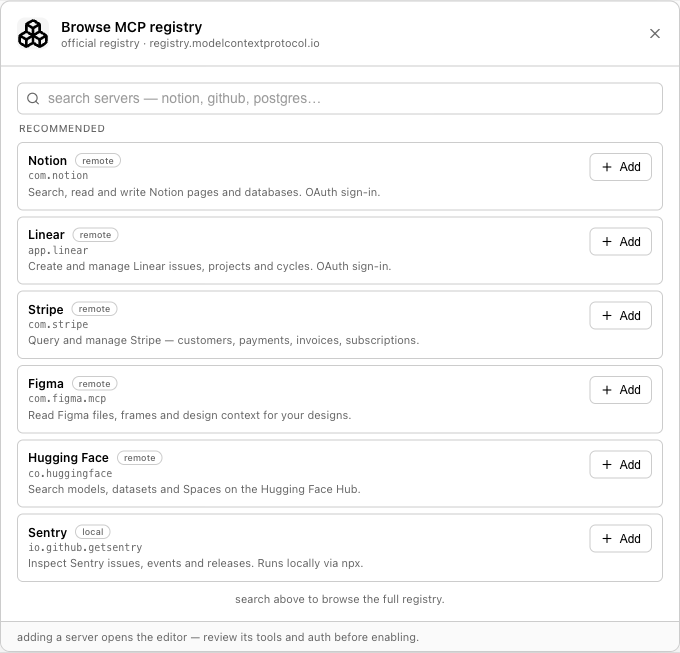
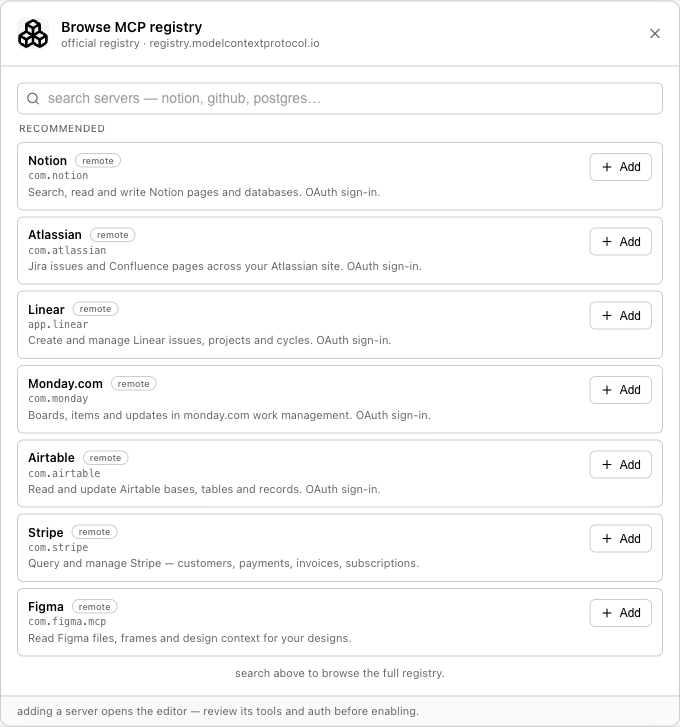
feat(connections): make recommended MCP servers mainstream work apps
Swap the dev-skewed recommendations (Hugging Face, Sentry) for apps our
B2B users actually live in, all with trustworthy official vendor remotes:
Notion, Atlassian (Jira/Confluence), Linear, Monday.com, Airtable, Stripe,
Figma. Each is OAuth-based and first-party hosted.

Deliberately NOT recommending Slack/Gmail/Calendar here: the registry has
no official vendor remotes for them (only third-party brokers that route
that data off-device — counter to local-first), and screenpipe already
ships native first-party connection cards for all three.

Changed region(s): [[0.0, 0.0306, 0.9882, 1.0], [0.9574, 0.0306, 0.9882, 0.0613]]

diff --git a/apps/screenpipe-app-tauri/lib/mcp-registry.ts b/apps/screenpipe-app-tauri/lib/mcp-registry.ts
@@ -256,11 +256,30 @@ export const RECOMMENDED_SERVERS: RegistryServer[] = [
     remotes: [{ type: "streamable-http", url: "https://mcp.notion.com/mcp" }],
   },
   {
+    name: "com.atlassian/atlassian-mcp-server",
+    title: "Atlassian",
+    description: "Jira issues and Confluence pages across your Atlassian site. OAuth sign-in.",
+    repository: { url: "https://www.atlassian.com/platform/remote-mcp-server" },
+    remotes: [{ type: "streamable-http", url: "https://mcp.atlassian.com/v1/mcp" }],
+  },
+  {
     name: "app.linear/linear",
     title: "Linear",
     description: "Create and manage Linear issues, projects and cycles. OAuth sign-in.",
     repository: { url: "https://linear.app/docs/mcp" },
     remotes: [{ type: "sse", url: "https://mcp.linear.app/sse" }],
+  },
+  {
+    name: "com.monday/monday.com",
+    title: "Monday.com",
+    description: "Boards, items and updates in monday.com work management. OAuth sign-in.",
+    remotes: [{ type: "streamable-http", url: "https://mcp.monday.com/mcp" }],
+  },
+  {
+    name: "com.airtable/mcp",
+    title: "Airtable",
+    description: "Read and update Airtable bases, tables and records. OAuth sign-in.",
+    remotes: [{ type: "streamable-http", url: "https://mcp.airtable.com/mcp" }],
   },
   {
     name: "com.stripe/mcp",
@@ -275,26 +294,5 @@ export const RECOMMENDED_SERVERS: RegistryServer[] = [
     description: "Read Figma files, frames and design context for your designs.",
     repository: { url: "https://help.figma.com/hc/en-us/articles/32132100833559" },
     remotes: [{ type: "streamable-http", url: "https://mcp.figma.com/mcp" }],
-  },
-  {
-    name: "co.huggingface/hf-mcp-server",
-    title: "Hugging Face",
-    description: "Search models, datasets and Spaces on the Hugging Face Hub.",
-    repository: { url: "https://github.com/evalstate/hf-mcp-server" },
-    remotes: [{ type: "streamable-http", url: "https://huggingface.co/mcp?login" }],
-  },
-  {
-    name: "io.github.getsentry/sentry-mcp",
-    title: "Sentry",
-    description: "Inspect Sentry issues, events and releases. Runs locally via npx.",
-    repository: { url: "https://github.com/getsentry/sentry-mcp" },
-    packages: [
-      {
-        registryType: "npm",
-        identifier: "@sentry/mcp-server",
-        runtimeHint: "npx",
-        transport: { type: "stdio" },
-      },
-    ],
   },
 ];

diff --git a/docs/mcp-registry/mockups.html b/docs/mcp-registry/mockups.html
@@ -136,11 +136,12 @@
         <div class="list">
           <p style="font-size:10px;font-weight:500;text-transform:uppercase;letter-spacing:.05em;color:var(--muted-foreground);padding:0 2px 2px;margin:0;">Recommended</p>
           <div class="item"><div style="flex:1;min-width:0;"><div style="display:flex;align-items:center;gap:8px;"><span class="nm">Notion</span><span class="badge">remote</span></div><p class="ns">com.notion</p><p class="it-desc">Search, read and write Notion pages and databases. OAuth sign-in.</p></div><button class="btn sm"><svg viewBox="0 0 24 24" fill="none" stroke="#000" stroke-width="2" stroke-linecap="round" stroke-linejoin="round"><path d="M5 12h14"/><path d="M12 5v14"/></svg>Add</button></div>
+          <div class="item"><div style="flex:1;min-width:0;"><div style="display:flex;align-items:center;gap:8px;"><span class="nm">Atlassian</span><span class="badge">remote</span></div><p class="ns">com.atlassian</p><p class="it-desc">Jira issues and Confluence pages across your Atlassian site. OAuth sign-in.</p></div><button class="btn sm"><svg viewBox="0 0 24 24" fill="none" stroke="#000" stroke-width="2" stroke-linecap="round" stroke-linejoin="round"><path d="M5 12h14"/><path d="M12 5v14"/></svg>Add</button></div>
           <div class="item"><div style="flex:1;min-width:0;"><div style="display:flex;align-items:center;gap:8px;"><span class="nm">Linear</span><span class="badge">remote</span></div><p class="ns">app.linear</p><p class="it-desc">Create and manage Linear issues, projects and cycles. OAuth sign-in.</p></div><button class="btn sm"><svg viewBox="0 0 24 24" fill="none" stroke="#000" stroke-width="2" stroke-linecap="round" stroke-linejoin="round"><path d="M5 12h14"/><path d="M12 5v14"/></svg>Add</button></div>
+          <div class="item"><div style="flex:1;min-width:0;"><div style="display:flex;align-items:center;gap:8px;"><span class="nm">Monday.com</span><span class="badge">remote</span></div><p class="ns">com.monday</p><p class="it-desc">Boards, items and updates in monday.com work management. OAuth sign-in.</p></div><button class="btn sm"><svg viewBox="0 0 24 24" fill="none" stroke="#000" stroke-width="2" stroke-linecap="round" stroke-linejoin="round"><path d="M5 12h14"/><path d="M12 5v14"/></svg>Add</button></div>
+          <div class="item"><div style="flex:1;min-width:0;"><div style="display:flex;align-items:center;gap:8px;"><span class="nm">Airtable</span><span class="badge">remote</span></div><p class="ns">com.airtable</p><p class="it-desc">Read and update Airtable bases, tables and records. OAuth sign-in.</p></div><button class="btn sm"><svg viewBox="0 0 24 24" fill="none" stroke="#000" stroke-width="2" stroke-linecap="round" stroke-linejoin="round"><path d="M5 12h14"/><path d="M12 5v14"/></svg>Add</button></div>
           <div class="item"><div style="flex:1;min-width:0;"><div style="display:flex;align-items:center;gap:8px;"><span class="nm">Stripe</span><span class="badge">remote</span></div><p class="ns">com.stripe</p><p class="it-desc">Query and manage Stripe — customers, payments, invoices, subscriptions.</p></div><button class="btn sm"><svg viewBox="0 0 24 24" fill="none" stroke="#000" stroke-width="2" stroke-linecap="round" stroke-linejoin="round"><path d="M5 12h14"/><path d="M12 5v14"/></svg>Add</button></div>
           <div class="item"><div style="flex:1;min-width:0;"><div style="display:flex;align-items:center;gap:8px;"><span class="nm">Figma</span><span class="badge">remote</span></div><p class="ns">com.figma.mcp</p><p class="it-desc">Read Figma files, frames and design context for your designs.</p></div><button class="btn sm"><svg viewBox="0 0 24 24" fill="none" stroke="#000" stroke-width="2" stroke-linecap="round" stroke-linejoin="round"><path d="M5 12h14"/><path d="M12 5v14"/></svg>Add</button></div>
-          <div class="item"><div style="flex:1;min-width:0;"><div style="display:flex;align-items:center;gap:8px;"><span class="nm">Hugging Face</span><span class="badge">remote</span></div><p class="ns">co.huggingface</p><p class="it-desc">Search models, datasets and Spaces on the Hugging Face Hub.</p></div><button class="btn sm"><svg viewBox="0 0 24 24" fill="none" stroke="#000" stroke-width="2" stroke-linecap="round" stroke-linejoin="round"><path d="M5 12h14"/><path d="M12 5v14"/></svg>Add</button></div>
-          <div class="item"><div style="flex:1;min-width:0;"><div style="display:flex;align-items:center;gap:8px;"><span class="nm">Sentry</span><span class="badge">local</span></div><p class="ns">io.github.getsentry</p><p class="it-desc">Inspect Sentry issues, events and releases. Runs locally via npx.</p></div><button class="btn sm"><svg viewBox="0 0 24 24" fill="none" stroke="#000" stroke-width="2" stroke-linecap="round" stroke-linejoin="round"><path d="M5 12h14"/><path d="M12 5v14"/></svg>Add</button></div>
           <p style="font-size:11px;color:var(--muted-foreground);text-align:center;padding-top:4px;margin:0;">search above to browse the full registry.</p>
         </div>
         <div class="dfoot">adding a server opens the editor — review its tools and auth before enabling.</div>